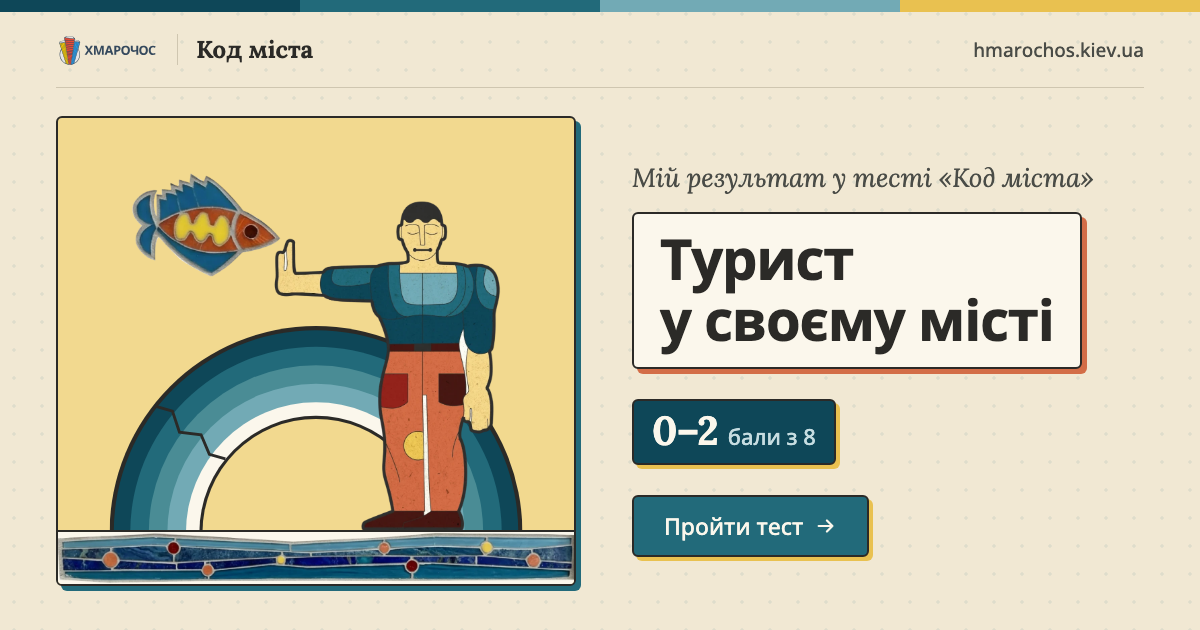
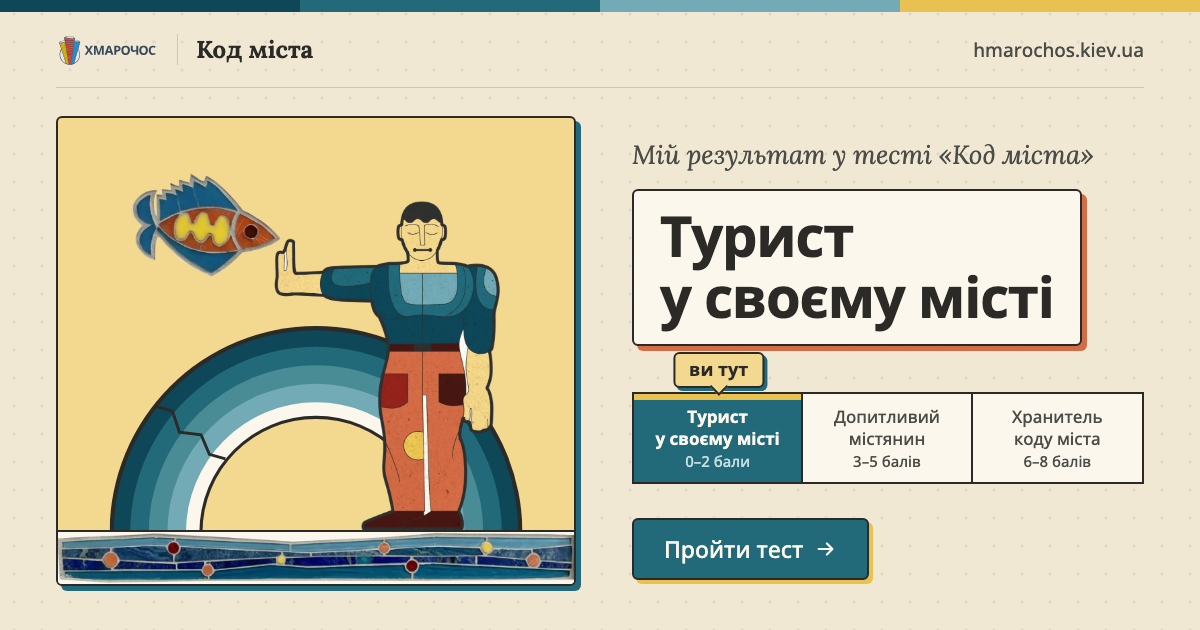
Фото: Полтавське земство у відповіді на 3-тє питання, будинок «Слово» і Держпром у 5-му та 7-му питаннях; красивіший «ви тут»; OG рівнів зі шкалою й «ви тут», версіоновані адреси OG

Changed region(s): [[0.5242, 0.2111, 0.9558, 0.9349]]

diff --git a/og-src/og.html b/og-src/og.html
@@ -65,10 +65,19 @@ body.level .lvl { display: block; }
 .range { display: inline-flex; align-items: baseline; gap: 10px; margin-top: 30px; padding: 10px 18px 12px; background: var(--teal-900); color: var(--card); border: var(--lw) solid var(--ink); border-radius: var(--r); box-shadow: 4px 4px 0 var(--mustard-deep); }
 .range b { font-family: "Lora", serif; font-weight: 700; font-size: 40px; line-height: 1; letter-spacing: -0.02em; }
 .range span { font-weight: 500; font-size: 22px; color: var(--sky); }
-.text .btn { margin-top: 30px; }
+.text .btn { margin-top: 34px; }
 .arch .a-ink { fill: var(--ink); } .arch .a-900 { fill: var(--teal-900); } .arch .a-600 { fill: var(--teal-600); }
 .arch .a-500 { fill: var(--teal-500); } .arch .a-300 { fill: var(--teal-300); } .arch .a-card { fill: var(--card); }
 .arch .a-hole { fill: var(--mustard); } .arch .a-crack { fill: none; stroke: var(--ink); stroke-width: 1.4; }
+
+.scale { position: relative; margin-top: 46px; width: 100%; display: grid; grid-template-columns: repeat(3, 1fr); border: var(--lw) solid var(--ink); background: var(--card); }
+.scale div { padding: 12px 8px 11px; text-align: center; border-right: var(--lw) solid var(--ink); font-weight: 500; font-size: 17px; line-height: 1.25; color: var(--ink-2); }
+.scale div:last-child { border-right: 0; }
+.scale div small { display: block; margin-top: 3px; font-size: 15px; font-weight: 500; }
+.scale div.on { background: var(--teal-600); color: var(--card); font-weight: 700; box-shadow: inset 0 6px 0 var(--mustard-deep); }
+.scale div.on small { font-weight: 500; color: var(--sky); }
+.here { position: absolute; top: -42px; transform: translateX(-50%); padding: 4px 14px 6px; background: var(--mustard); border: var(--lw) solid var(--ink); border-radius: var(--r); box-shadow: 3px 3px 0 var(--teal-600); font-weight: 700; font-size: 18px; line-height: 22px; white-space: nowrap; }
+.here::after { content: ""; position: absolute; left: 50%; bottom: -7px; width: 11px; height: 11px; margin-left: -6px; background: var(--mustard); border-right: var(--lw) solid var(--ink); border-bottom: var(--lw) solid var(--ink); transform: rotate(45deg); }
 </style>
 </head>
 <body>
@@ -103,7 +112,12 @@ body.level .lvl { display: block; }
   <div class="text">
     <p class="kicker">Мій результат у тесті «Код міста»</p>
     <div class="plate"><h1 id="title"></h1></div>
-    <div class="range"><b id="rangeN"></b><span id="rangeT"></span></div>
+    <div class="scale" id="scale">
+      <span class="here" id="here">ви тут</span>
+      <div data-l="tourist">Турист<br>у&nbsp;своєму місті<small>0–2 бали</small></div>
+      <div data-l="citizen">Допитливий<br>містянин<small>3–5 балів</small></div>
+      <div data-l="keeper">Хранитель<br>коду міста<small>6–8 балів</small></div>
+    </div>
     <span class="btn">Пройти тест <svg viewBox="0 0 24 24" fill="none" stroke="currentColor" stroke-width="2.4" stroke-linecap="round" stroke-linejoin="round"><path d="M4 12h15M13 6l6 6-6 6"/></svg></span>
   </div>
 </section>
@@ -120,8 +134,9 @@ body.level .lvl { display: block; }
     document.getElementById("char").src = `../public/art/char-${slug}.webp`;
     const h = document.getElementById("title");
     lv.title.forEach((line, k) => { if (k) h.appendChild(document.createElement("br")); h.appendChild(document.createTextNode(line)); });
-    document.getElementById("rangeN").textContent = lv.n;
-    document.getElementById("rangeT").textContent = lv.t;
+    const order = ["tourist", "citizen", "keeper"];
+    document.querySelectorAll("#scale div").forEach((d) => d.classList.toggle("on", d.dataset.l === slug));
+    document.getElementById("here").style.left = `${(order.indexOf(slug) * 2 + 1) / 6 * 100}%`;
   }
 </script>
 </body>

diff --git a/data/quiz.ts b/data/quiz.ts
@@ -18,6 +18,16 @@ export interface Source {
 }
 
 
+/** Фото до питання чи відповіді: src — повний розмір (до 1280px), поруч лежить -640.webp. */
+export interface Photo {
+  src: string;
+  alt: string;
+  /** Підпис під фото у відповіді (опційно). */
+  caption?: string;
+  /** Яку частину кадру тримати в центрі при обрізанні (object-position). */
+  focus?: string;
+}
+
 export interface Question {
   id: number; // 1..8
   topic: string;
@@ -25,6 +35,10 @@ export interface Question {
   short: string;
   /** Вступна фраза перед питанням (опційно). */
   context?: string;
+  /** Фото в картці питання (не має підказувати відповідь). */
+  photo?: Photo;
+  /** Фото в картці відповіді. */
+  answerPhoto?: Photo;
   prompt: string;
   options: Option[];
   correct: OptionKey;
@@ -100,6 +114,12 @@ export const questions: Question[] = [
   {
     id: 3,
     short: "Полтавське земство",
+    answerPhoto: {
+      src: "/photos/q3-zemstvo.webp",
+      alt: "Будинок Полтавського губернського земства: цегляний фасад із керамічним орнаментом і вежами",
+      caption: "Будинок Полтавського губернського земства, нині Полтавський краєзнавчий музей",
+      focus: "50% 40%",
+    },
     topic: "Архітектура",
     context:
       "Ця будівля стала одним із найвідоміших прикладів Українського архітектурного модерну. Її національні мотиви вирізнялися на тлі імперської архітектурної традиції, а російський імператор Микола II під час візиту залишив критичний запис про цей стиль.",
@@ -152,6 +172,11 @@ export const questions: Question[] = [
   {
     id: 5,
     short: "Будинок «Слово»",
+    photo: {
+      src: "/photos/q5-slovo.webp",
+      alt: "Будинок «Слово» в Харкові: сірий п’ятиповерховий фасад за деревами",
+      focus: "50% 38%",
+    },
     topic: "Архітектура",
     context: "У Харкові є будинок, форму якого архітектори пов’язали з українським словом.",
     prompt: "Для кого його спеціально збудували наприкінці 1920-х років?",
@@ -204,6 +229,11 @@ export const questions: Question[] = [
   {
     id: 7,
     short: "Держпром",
+    photo: {
+      src: "/photos/q7-derzhprom.webp",
+      alt: "Держпром у Харкові: світлі корпуси з переходами над майданом",
+      focus: "50% 45%",
+    },
     topic: "Архітектура",
     context: "Держпром у Харкові часто сприймають просто як один із символів радянської архітектури.",
     prompt: "Але який факт про цю будівлю робить її важливою для історії світового модернізму?",

diff --git a/app/skins/veselka/veselka.css b/app/skins/veselka/veselka.css
@@ -1833,6 +1833,92 @@ body:has(.veselka.result) {
   .veselka .opts li { margin-top: 12px; }
 }
 
+/* ═══ Фото в питанні (на всю ширину картки, під стікером теми) і у відповіді
+   (після першого речення, з підписом). ═══ */
+.veselka .photo { margin: 0; }
+.veselka .photo img { display: block; width: 100%; height: auto; object-fit: cover; }
+.veselka .qpane { position: relative; }
+.veselka .photo.inQuestion {
+  margin: -22px -18px 18px;
+  border-bottom: var(--lw) solid var(--ink);
+  border-radius: calc(var(--r) - var(--lw)) calc(var(--r) - var(--lw)) 0 0;
+  overflow: hidden;
+  background: var(--sand);
+}
+.veselka .photo.inQuestion img { aspect-ratio: 16 / 9; }
+.veselka .qpane.hasPhoto .topic { z-index: 2; }
+.veselka .photo.inAnswer { margin: 16px 0 4px; }
+.veselka .photo.inAnswer img {
+  aspect-ratio: 3 / 2;
+  border: var(--lw) solid var(--ink);
+  border-radius: var(--r);
+  box-shadow: 2px 2px 0 var(--mustard-deep);
+  background: var(--sand);
+}
+.veselka .photo figcaption {
+  margin-top: 8px;
+  font-size: 12px;
+  line-height: 17px;
+  color: var(--ink-2);
+}
+@media (min-width: 900px) {
+  .veselka .photo.inQuestion { margin: -30px -30px 22px; }
+  .veselka .photo.inQuestion img { aspect-ratio: 2 / 1; }
+  .veselka .photo.inAnswer { margin: 18px 0 6px; }
+  .veselka .photo.inAnswer img { box-shadow: 3px 3px 0 var(--mustard-deep); }
+  .veselka .photo figcaption { font-size: 12.5px; }
+}
+@media (prefers-reduced-motion: no-preference) {
+  .veselka .photo img { animation: vFade 360ms var(--ease) both; }
+}
+
+/* ═══ «Ви тут»: наліпка-підказка з ромбиком, що вказує на поточний рівень;
+   поточна комірка — гірчична смужка зверху. ═══ */
+.veselka .scaleWrap { padding-top: 30px; }
+.veselka .here {
+  top: 0;
+  gap: 0;
+  padding: 3px 11px 4px;
+  background: var(--mustard);
+  border: var(--lw) solid var(--ink);
+  border-radius: var(--r);
+  box-shadow: 2px 2px 0 var(--teal-600);
+  font-family: "Open Sans", sans-serif;
+  font-weight: 700;
+  font-size: 12px;
+  line-height: 16px;
+  letter-spacing: 0.01em;
+  color: var(--ink);
+  transform: translateX(-50%);
+}
+.veselka .here::after {
+  content: "";
+  position: absolute;
+  left: 50%;
+  bottom: -5px;
+  width: 8px;
+  height: 8px;
+  margin-left: -4px;
+  background: var(--mustard);
+  border: 0;
+  border-right: var(--lw) solid var(--ink);
+  border-bottom: var(--lw) solid var(--ink);
+  transform: rotate(45deg);
+}
+.veselka .here i { display: none; }
+.veselka .lvl.on { box-shadow: inset 0 4px 0 var(--mustard-deep); }
+@media (prefers-reduced-motion: no-preference) {
+  .veselka .here { animation: vHere 360ms 420ms var(--ease) both; }
+}
+@keyframes vHere {
+  from { opacity: 0; transform: translate(-50%, -6px); }
+  to { opacity: 1; transform: translate(-50%, 0); }
+}
+@media (min-width: 900px) {
+  .veselka .scaleWrap { padding-top: 32px; }
+  .veselka .here { font-size: 12.5px; padding: 3px 12px 4px; }
+}
+
 /* ——— 1x-екрани: контур рівно 1.5px ——— */
 @media (resolution < 1.5dppx) {
   .veselka { --lw: 1px; }

diff --git a/app/skins/veselka/VeselkaSkin.tsx b/app/skins/veselka/VeselkaSkin.tsx
@@ -8,7 +8,7 @@
 
 import { useEffect, useLayoutEffect, useRef, useState } from "react";
 import type { QuizApi } from "../../useQuiz";
-import { intro, levels, questions, type Level, type Question } from "../../../data/quiz";
+import { intro, levels, questions, type Level, type Photo, type Question } from "../../../data/quiz";
 import { asset } from "../../bp";
 import { SITE_URL, TEST_SHARE_TEXT, resultShareUrl } from "../../share";
 import { COVER_ALT, buzz, glide, useKeys } from "../common";
@@ -157,13 +157,39 @@ function CountUp({ to }: { to: number }) {
   return <>{n}</>;
 }
 
-/** Пояснення: перше речення — окремий абзац як головна думка. */
-function Explanation({ text }: { text: string }) {
+/** Фото до питання чи відповіді: 640px для телефона, 1280px для широкого й 2x-екрана. */
+function PhotoFig({ photo, cls }: { photo: Photo; cls: string }) {
+  const small = photo.src.replace(/\.webp$/, "-640.webp");
+  return (
+    <figure className={`photo ${cls}`}>
+      {/* eslint-disable-next-line @next/next/no-img-element */}
+      <img
+        src={asset(small)}
+        srcSet={`${asset(small)} 640w, ${asset(photo.src)} 1280w`}
+        sizes="(min-width: 900px) 640px, 100vw"
+        alt={photo.alt}
+        decoding="async"
+        style={photo.focus ? { objectPosition: photo.focus } : undefined}
+      />
+      {photo.caption && <figcaption>{photo.caption}</figcaption>}
+    </figure>
+  );
+}
+
+/** Пояснення: перше речення — окремий абзац як головна думка; фото — між ними. */
+function Explanation({ text, photo }: { text: string; photo?: Photo }) {
   const m = text.match(/^(.+?[.!?])\s+([\s\S]+)$/);
-  if (!m) return <p className="lede">{text}</p>;
+  if (!m)
+    return (
+      <>
+        <p className="lede">{text}</p>
+        {photo && <PhotoFig photo={photo} cls="inAnswer" />}
+      </>
+    );
   return (
     <>
       <p className="lede">{m[1]}</p>
+      {photo && <PhotoFig photo={photo} cls="inAnswer" />}
       <p className="explain">{m[2]}</p>
     </>
   );
@@ -202,7 +228,7 @@ function AnswerCard({ q, ok, deco, cardRef, id }: { q: Question; ok: boolean | n
             </span>
           )}
         </p>
-        <Explanation text={q.explanation} />
+        <Explanation text={q.explanation} photo={q.answerPhoto} />
         <Sources q={q} />
       </div>
     </section>
@@ -308,10 +334,11 @@ function Sheet({ quiz }: { quiz: QuizApi }) {
         </header>
         <Windows idx={idx} total={total} answered={answered} />
 
-        <section className="pane qpane in">
+        <section className={`pane qpane in${q.photo ? " hasPhoto" : ""}`}>
           <p className="topic">
             <span className="chip">{q.topic}</span>
           </p>
+          {q.photo && <PhotoFig photo={q.photo} cls="inQuestion" />}
           {q.context && <p className="qlead">{q.context}</p>}
           <h2 className="prompt" ref={promptRef} tabIndex={-1}>
             {q.prompt}

diff --git a/app/layout.tsx b/app/layout.tsx
@@ -4,7 +4,7 @@ import "./skins/book/book.css";
 import "./skins/memphis/memphis.css";
 import "./skins/vitrazh/vitrazh.css";
 import "./skins/veselka/veselka.css";
-import { SITE_URL, TEST_SHARE_TITLE } from "./share";
+import { OG_VERSION, SITE_URL, TEST_SHARE_TITLE } from "./share";
 import { asset } from "./bp";
 
 const TITLE = "Код міста · Тест Хмарочоса";
@@ -31,13 +31,13 @@ export const metadata: Metadata = {
     siteName: "Хмарочос",
     locale: "uk_UA",
     type: "website",
-    images: [{ url: `${SITE_URL}/og-test.png`, width: 1200, height: 630, alt: TEST_SHARE_TITLE }],
+    images: [{ url: `${SITE_URL}/og-test.png?v=${OG_VERSION}`, width: 1200, height: 630, alt: TEST_SHARE_TITLE }],
   },
   twitter: {
     card: "summary_large_image",
     title: TEST_SHARE_TITLE,
     description: DESC,
-    images: [`${SITE_URL}/og-test.png`],
+    images: [`${SITE_URL}/og-test.png?v=${OG_VERSION}`],
   },
 };
 

diff --git a/app/r/[level]/page.tsx b/app/r/[level]/page.tsx
@@ -2,7 +2,7 @@ import type { Metadata } from "next";
 import { notFound } from "next/navigation";
 import { getLevelBySlug, levels } from "../../../data/quiz";
 import { ResultPage } from "../../skins";
-import { SITE_URL, resultShareUrl } from "../../share";
+import { OG_VERSION, SITE_URL, resultShareUrl } from "../../share";
 
 // Статично генеруємо лише три сторінки рівнів.
 export const dynamicParams = false;
@@ -15,7 +15,7 @@ export async function generateMetadata({ params }: { params: Promise<{ level: st
   const lvl = getLevelBySlug(level);
   if (!lvl) return {};
   const title = `Мій результат — «${lvl.title}» · Код міста`;
-  const ogImage = `${SITE_URL}/og-${lvl.slug}.png`;
+  const ogImage = `${SITE_URL}/og-${lvl.slug}.png?v=${OG_VERSION}`;
   return {
     title,
     description: lvl.description,

diff --git a/app/share.ts b/app/share.ts
@@ -12,3 +12,6 @@ export const TEST_SHARE_TEXT =
 export function resultShareUrl(slug: string): string {
   return `${SITE_URL}/r/${slug}/`;
 }
+
+/** Версія OG-картинок: міняємо, коли картинки перемальовано, щоб соцмережі взяли нові. */
+export const OG_VERSION = "3";

diff --git a/docs/style-veselka.md b/docs/style-veselka.md
@@ -46,6 +46,10 @@
 
 Вступна фраза перед питанням (поле `context`) — перший абзац у картці питання, Open Sans 15/16px без курсиву, під ним тонка лінія і саме питання. Варіанти яскраві: кожен у своєму кольорі (світла заливка картки й насичена квадратна літера Lora 700: гірчиця, бірюза-світла, теракота, бірюза), тінь свого кольору, на наведенні тінь більшає. Після відповіді правильна заливається бірюзою з ✓, хибна — цегляна з ✕, решта гаснуть.
 
+Фото: поле `photo` у питанні показує знімок угорі картки питання на всю її ширину (16:9 на телефоні, 2:1 на десктопі), поле `answerPhoto` — у картці відповіді після першого речення, у рамці з гірчичною тінню й підписом. Файли в `public/photos/` у двох розмірах (1280 і 640px). Зараз: будинок Полтавського земства у відповіді на 3-тє питання, будинок «Слово» в 5-му й Держпром у 7-му питанні.
+
+«Ви тут» — гірчична наліпка з ромбиком-вказівником і бірюзовою тінню; поточна комірка шкали має гірчичну смужку зверху. Те саме — на OG-картинках рівнів. Адреси OG мають `?v=OG_VERSION` (app/share.ts) — підняти номер після перемальовування, щоб соцмережі взяли нові.
+
 ## Де підкрутити
 
 - Усе стало «криво» → `.veselka { --tilt: 0 }`.
